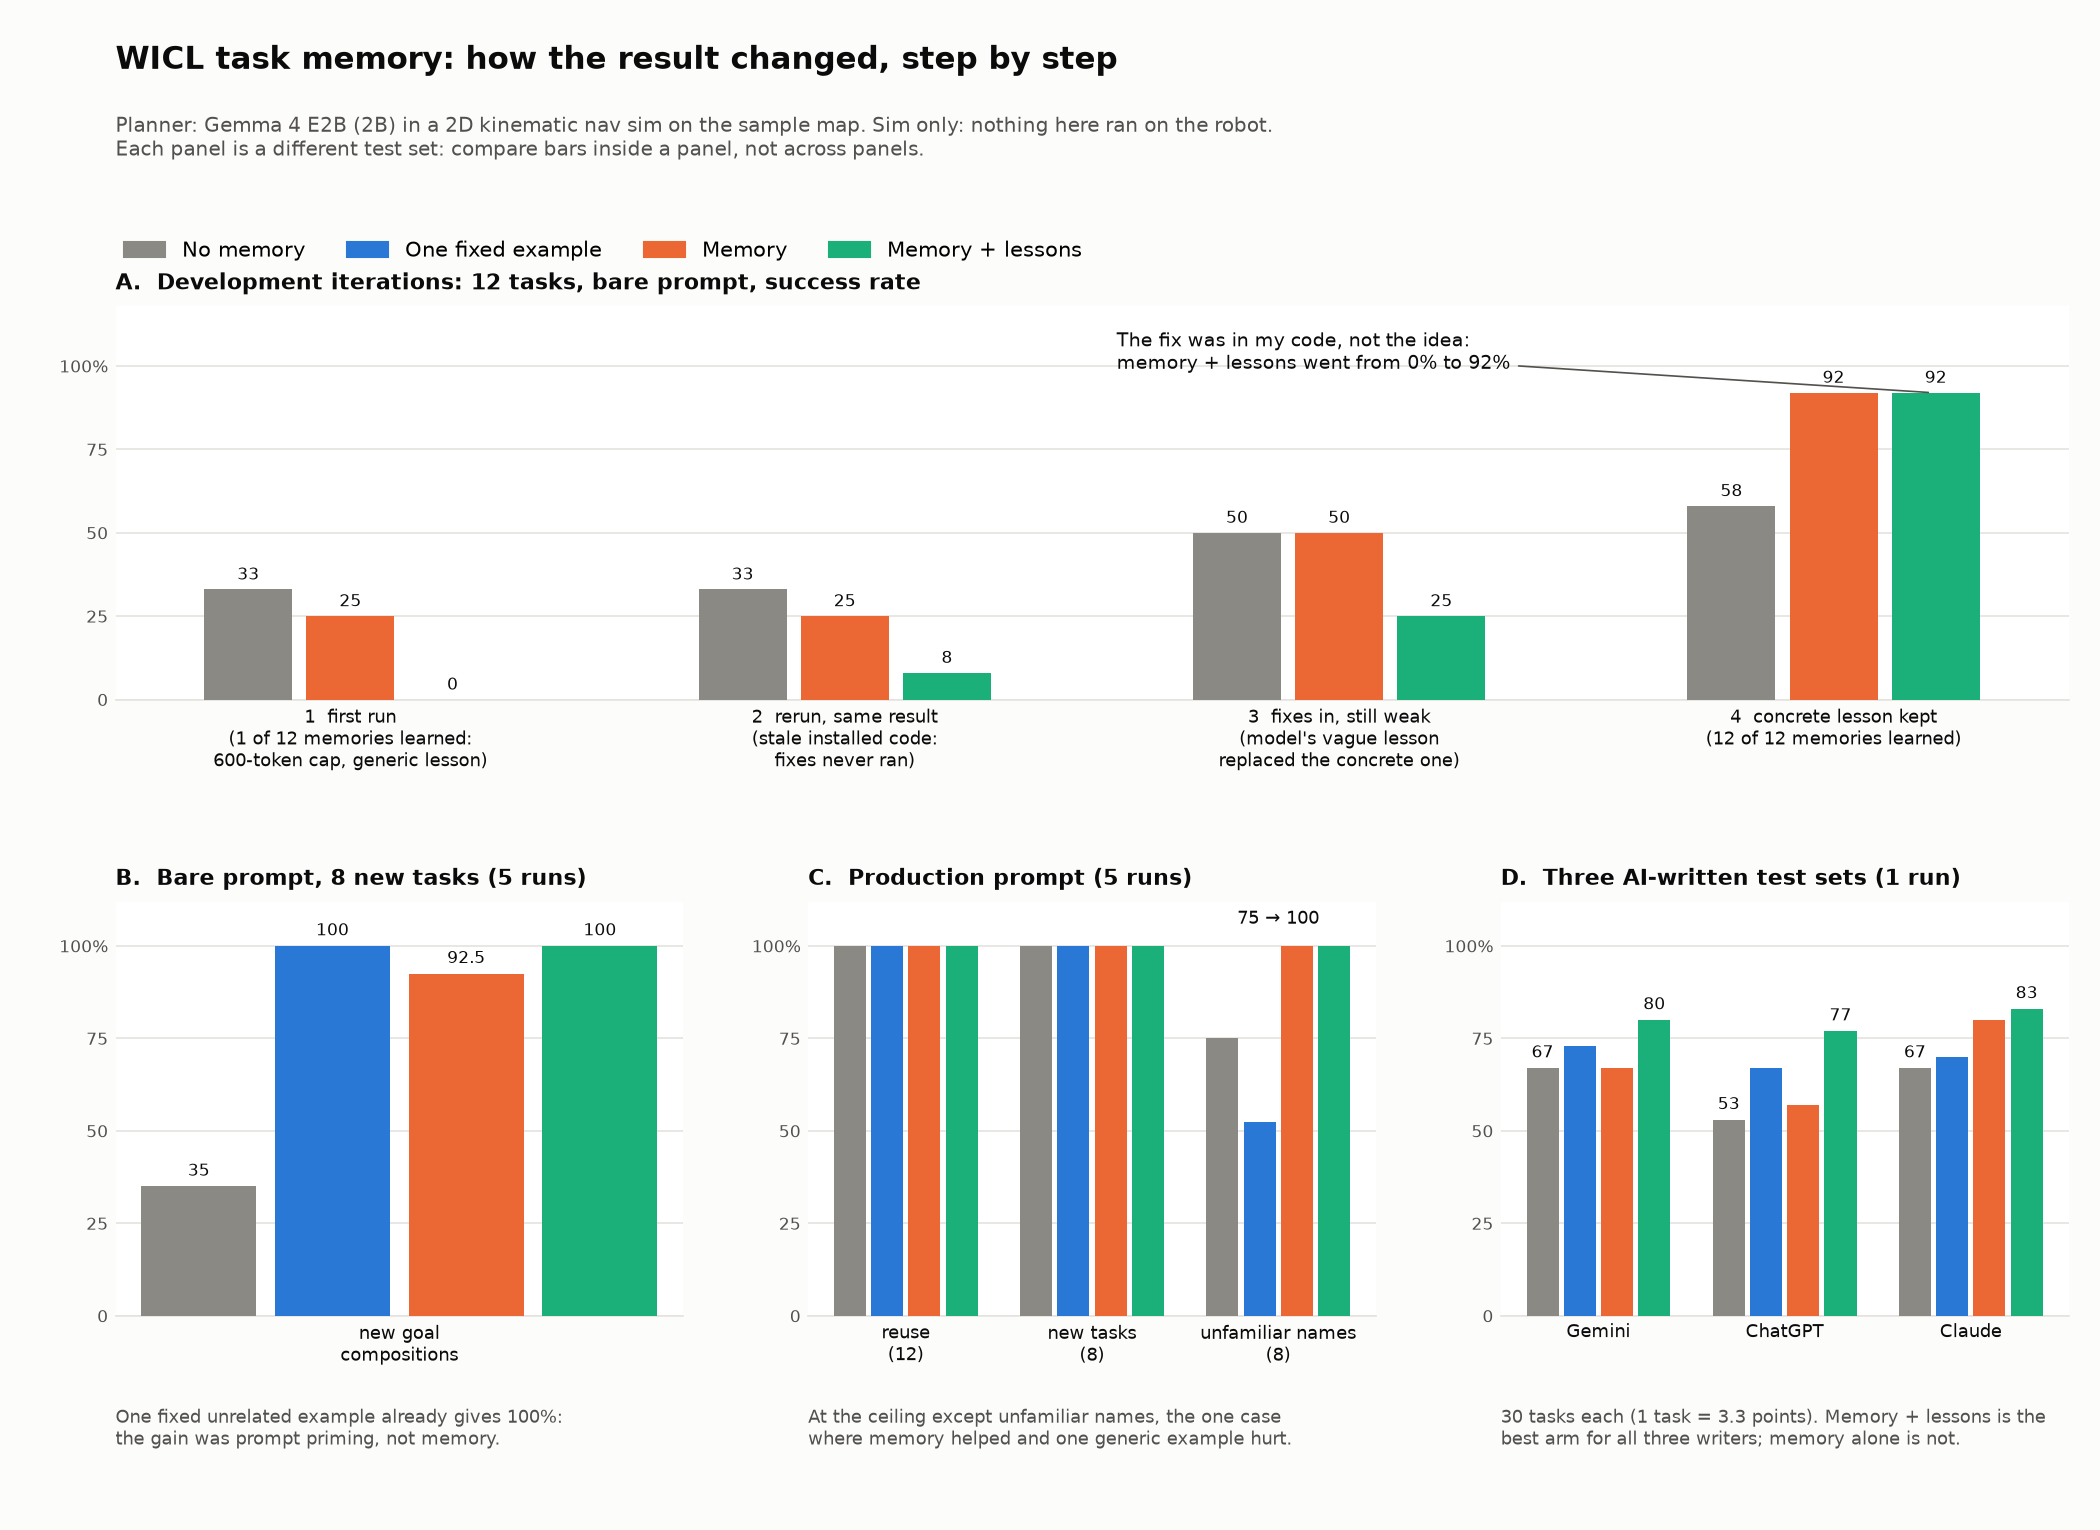
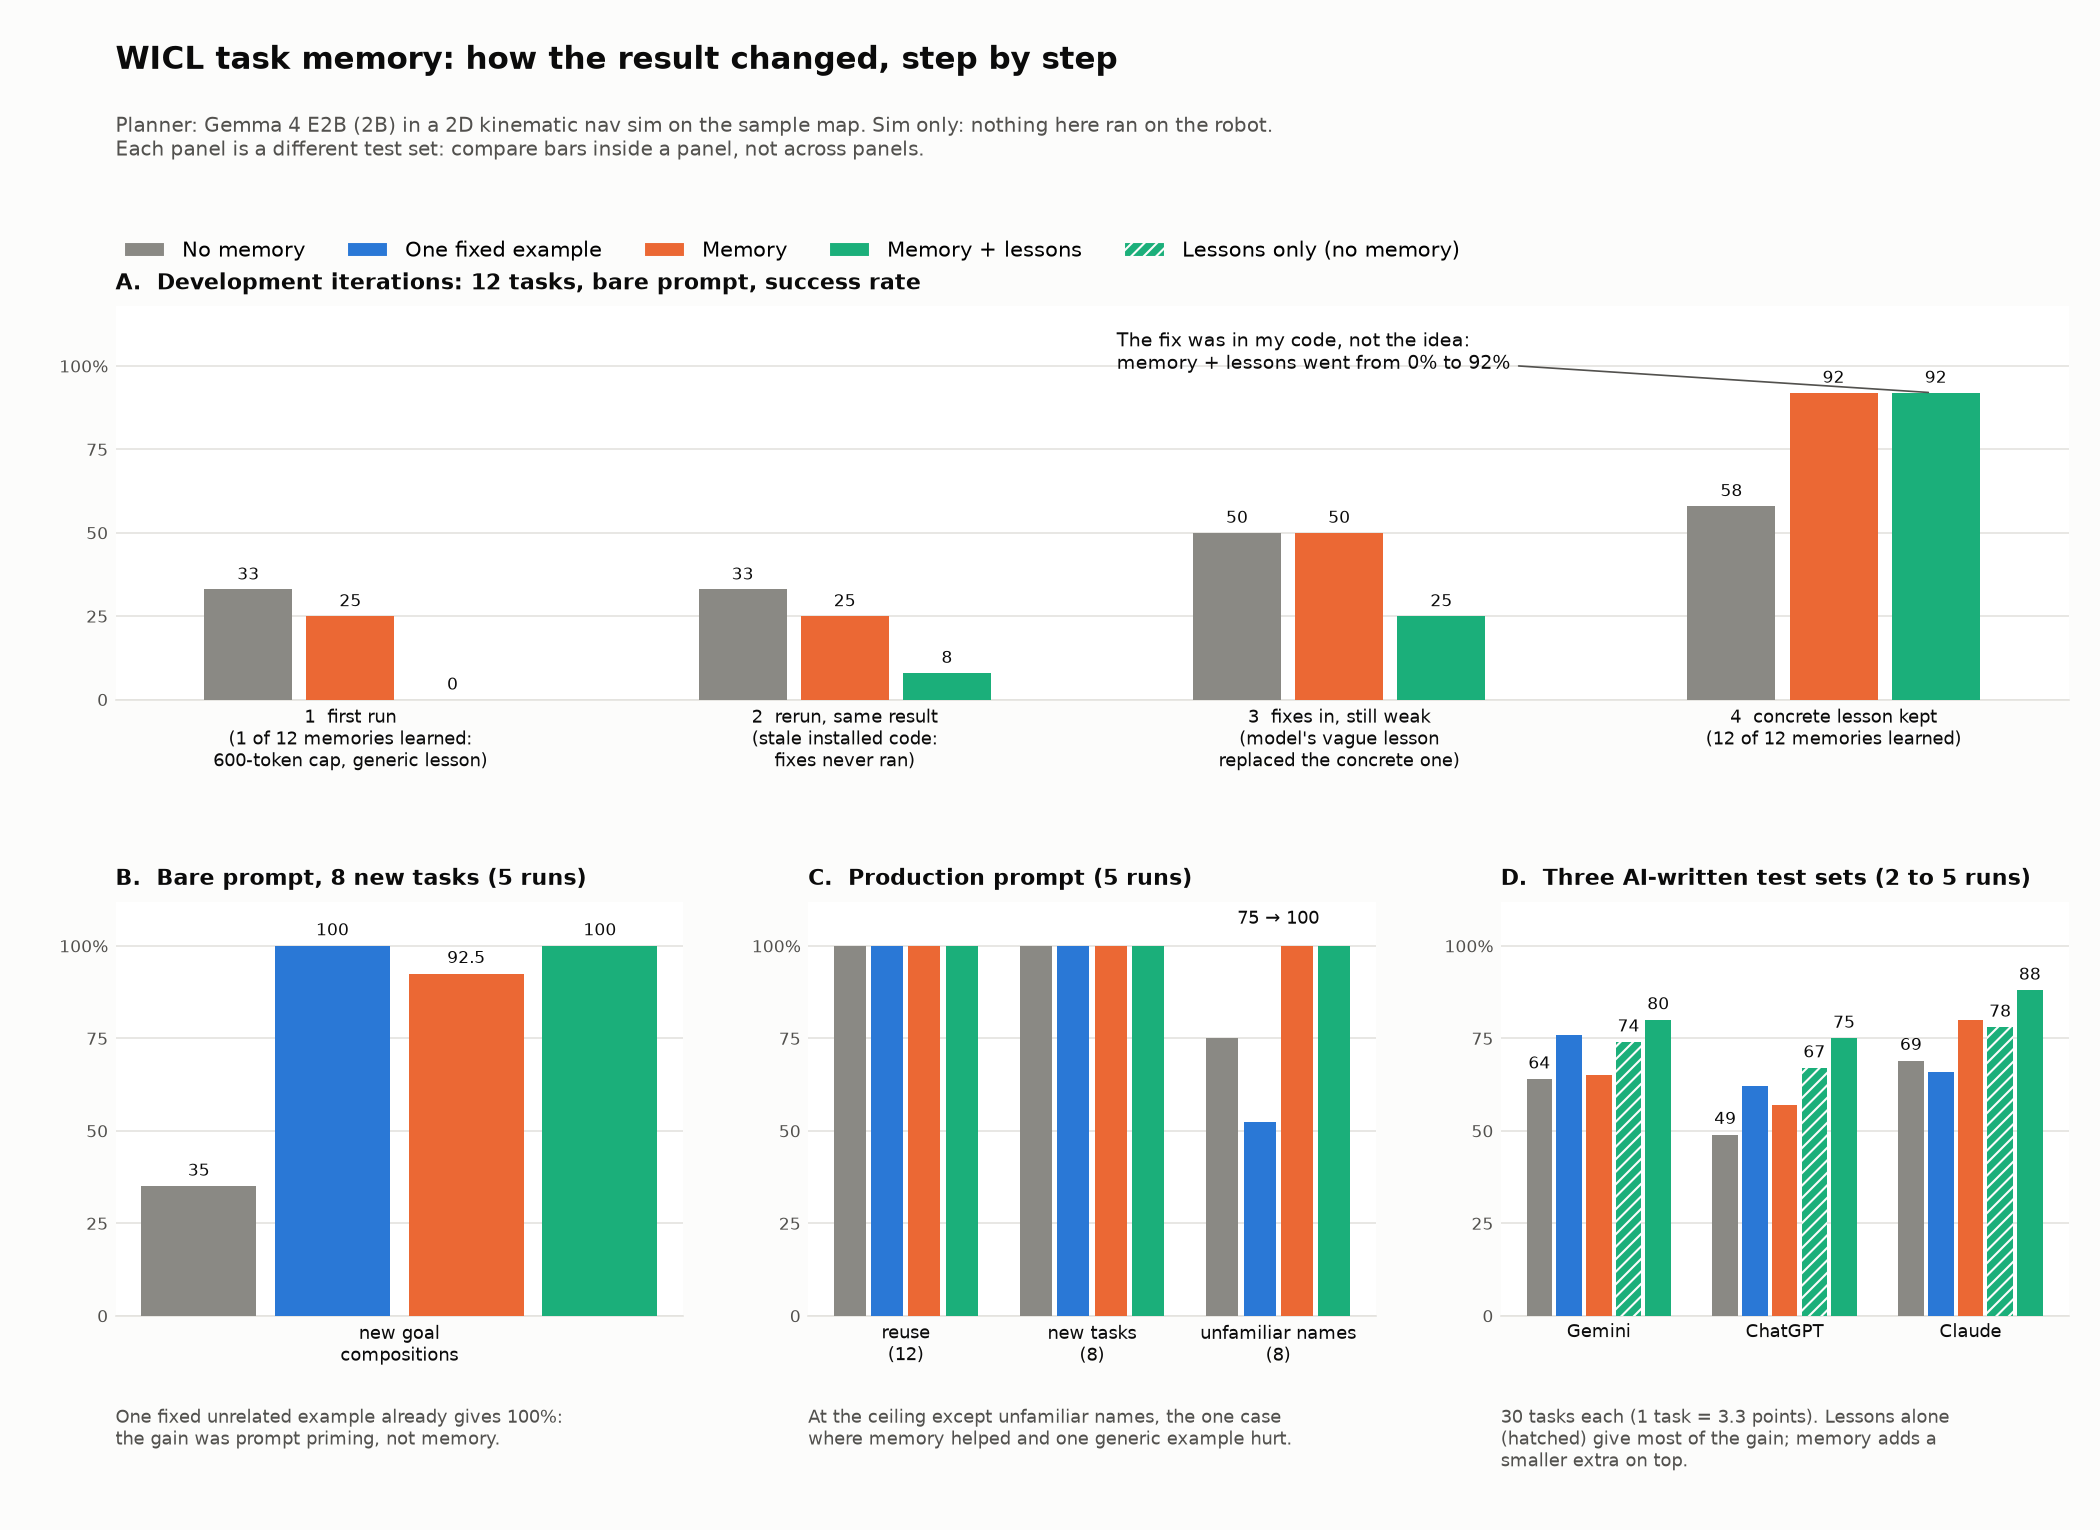
docs(wicl): lessons-only ablation (3 runs), runs 1-2 of the full benchmark, updated chart

diff --git a/tools/plot_wicl_journey.py b/tools/plot_wicl_journey.py
@@ -8,7 +8,9 @@ matplotlib.use('Agg')
 import matplotlib.pyplot as plt  # noqa: E402
 
 INK, MUTED, GRID, BG = '#0b0b0b', '#52514e', '#e4e3df', '#fcfcfb'
-ARMS = [('No memory', '#8a8984'), ('One fixed example', '#2a78d6'), ('Memory', '#eb6834'), ('Memory + lessons', '#1baf7a')]
+ARMS = [('No memory', '#8a8984'), ('One fixed example', '#2a78d6'), ('Memory', '#eb6834'), ('Memory + lessons', '#1baf7a'),
+        ('Lessons only (no memory)', '#1baf7a')]
+HATCH = {4: '////'}
 
 fig = plt.figure(figsize=(14, 10.2), facecolor=BG)
 gs = fig.add_gridspec(2, 3, height_ratios=[0.95, 1], hspace=0.50, wspace=0.22, left=0.055, right=0.985, top=0.80, bottom=0.14)
@@ -20,7 +22,8 @@ def panel(ax, title, groups, series, label_arms=(0, 3), width=0.8, note=None):
     w = width / n
     for k, (arm, vals) in enumerate(series.items()):
         xs = [i - width / 2 + w * (k + 0.5) for i in range(len(groups))]
-        ax.bar(xs, vals, w * 0.86, color=ARMS[arm][1], zorder=3, linewidth=0)
+        ax.bar(xs, vals, w * 0.86, color=ARMS[arm][1], zorder=3, linewidth=0, hatch=HATCH.get(arm),
+               edgecolor='#fcfcfb' if arm in HATCH else None)
         if arm in label_arms:
             for x, v in zip(xs, vals):
                 ax.text(x, v + 1.8, f'{v:g}', ha='center', va='bottom', fontsize=8, color=INK)
@@ -66,12 +69,12 @@ ax.text(2, 106, '75 → 100', ha='center', fontsize=8.5, color=INK)
 
 # D: three independent AI writers, first repeat only
 ax = fig.add_subplot(gs[1, 2])
-panel(ax, 'D.  Three AI-written test sets (1 run)', ['Gemini', 'ChatGPT', 'Claude'],
-      {0: [67, 53, 67], 1: [73, 67, 70], 2: [67, 57, 80], 3: [80, 77, 83]}, label_arms=(0, 3),
-      note='30 tasks each (1 task = 3.3 points). Memory + lessons is the\nbest arm for all three writers; memory alone is not.')
+panel(ax, 'D.  Three AI-written test sets (2 to 5 runs)', ['Gemini', 'ChatGPT', 'Claude'],
+      {0: [64, 49, 69], 1: [76, 62, 66], 2: [65, 57, 80], 4: [74, 67, 78], 3: [80, 75, 88]}, label_arms=(0, 4, 3),
+      note='30 tasks each (1 task = 3.3 points). Lessons alone\n(hatched) give most of the gain; memory adds a\nsmaller extra on top.')
 
-handles = [plt.Rectangle((0, 0), 1, 1, color=c) for _, c in ARMS]
-fig.legend(handles, [a for a, _ in ARMS], loc='upper left', bbox_to_anchor=(0.05, 0.855), ncol=4, frameon=False, fontsize=10)
+handles = [plt.Rectangle((0, 0), 1, 1, facecolor=c, hatch=HATCH.get(i), edgecolor='#fcfcfb') for i, (_, c) in enumerate(ARMS)]
+fig.legend(handles, [a for a, _ in ARMS], loc='upper left', bbox_to_anchor=(0.05, 0.855), ncol=5, frameon=False, fontsize=10)
 fig.text(0.055, 0.955, 'WICL task memory: how the result changed, step by step', fontsize=15, fontweight='bold', color=INK)
 fig.text(0.055, 0.925, 'Planner: Gemma 4 E2B (2B) in a 2D kinematic nav sim on the sample map. Sim only: nothing here ran on the robot.\n'
          'Each panel is a different test set: compare bars inside a panel, not across panels.', fontsize=9.5, color=MUTED, va='top')

diff --git a/docs/wicl.md b/docs/wicl.md
@@ -89,20 +89,25 @@ Read this carefully:
 - **The outside lesson added nothing measurable**: memory alone already reaches 100%, and every success was on the first attempt, so no lesson was ever used. It is also generic (it repeats the valid place names that the prompt already lists).
 - Sim-verified only (kinematic 2D sim). Nothing here is a Nav2 or hardware result.
 
-### Independent task sets (three AI writers), first repeat only
+### Independent task sets (three AI writers)
 
-Three AIs (Gemini, ChatGPT, Claude) each wrote 15 train and 30 eval tasks from `docs/wicl-task-writer-prompt.md`, which gave them only the world description and the output format (the Claude set is the same model family as the author of this code, so it is the least independent). Learning used all 61 train tasks (57 became memories). Success rates, production prompt, one repeat, 30 tasks per writer (one task = 3.3 points). Raw: `docs/wicl-benchmark-external-run1.json`.
+Three AIs (Gemini, ChatGPT, Claude) each wrote 15 train and 30 eval tasks from `docs/wicl-task-writer-prompt.md`, which gave them only the world description and the output format (the Claude set is the same model family as the author of this code, so it is the least independent). Learning used all 61 train tasks (57 to 58 became memories). Production prompt, success rate over 30 tasks per writer (one task = 3.3 points).
 
-| Writer | No memory | Fixed example | Memory | Memory + lessons |
-|---|---|---|---|---|
-| Gemini | 67% | 73% | 67% | **80%** |
-| ChatGPT | 53% | 67% | 57% | **77%** |
-| Claude | 67% | 70% | 80% | **83%** |
+| Writer | No memory | Fixed example | Memory | **Lessons only** (no memory) | Memory + lessons |
+|---|---|---|---|---|---|
+| Gemini | 64 | 76 | 65 | 74 | **80** |
+| ChatGPT | 49 | 62 | 57 | 67 | **75** |
+| Claude | 69 | 66 | 80 | 78 | **88** |
 
-- **Memory alone is not clearly better than no memory** (+0, +4, +13 points) and not clearly better than one fixed example.
-- **Memory plus lessons is the best arm for all three writers** (+13, +24, +16 points over no memory; +7, +10, +13 over the fixed example). The direction is the same for all three writers, which is more convincing than any single number.
-- **Why the lessons arm differs:** it also retries with the lesson as feedback, and its stored examples carry lessons. The only outside lesson is one generic sentence ("use only valid place names"), so this is a modest, specific effect, not general learning.
-- **Caveats:** one repeat; 30 tasks per writer; retrieval changed with the larger memory store (the alias split's memory arm moved from 100% to 88%), so numbers are sensitive to what is stored; kinematic 2D sim on the sample map; 2B planner only.
+How many runs back each column: no memory 5 runs, lessons only 3 runs, the other three 2 runs. Raw: `docs/wicl-benchmark-external-runs12.json` (runs 1 and 2 of the full benchmark; run 3 was stopped to run the ablation) and `docs/wicl-benchmark-ablation.json` (no memory vs lessons only, 3 runs, paired). A single run of the same arm moves by 4 to 10 points, so differences smaller than that are not meaningful.
+
+What this does and does not show:
+- **Lessons fed back after a failed attempt carry most of the gain.** With no stored memory at all, lessons alone beat no memory for Gemini (+14) and ChatGPT (+18) in every one of 3 paired runs; for Claude the gap is small (+6) and the ranges overlap.
+- **Memory alone is roughly as good as one fixed example**, not clearly better than no memory.
+- **Memory on top of lessons adds a smaller extra** (about 6 to 10 points over lessons only). That gap is close to run-to-run noise and is not from paired runs, so it is suggestive only.
+- **They look complementary, not rival:** lessons come from failed attempts, and the memory is where they are stored and replayed. The memory also skips the language-model call when a stored plan still validates (speed, offline use), which success rate does not measure.
+- **Narrow lesson evidence:** only one kind of failure showed up (an unknown place name) and there is one generic outside lesson. It is untested whether many different stored lessons help more.
+- Caveats as before: kinematic 2D sim on the sample map, 2B planner, plans in dry-run, nothing on the robot.
 
 ### Earlier benchmark on a bare prompt (superseded, kept for the record)
 
